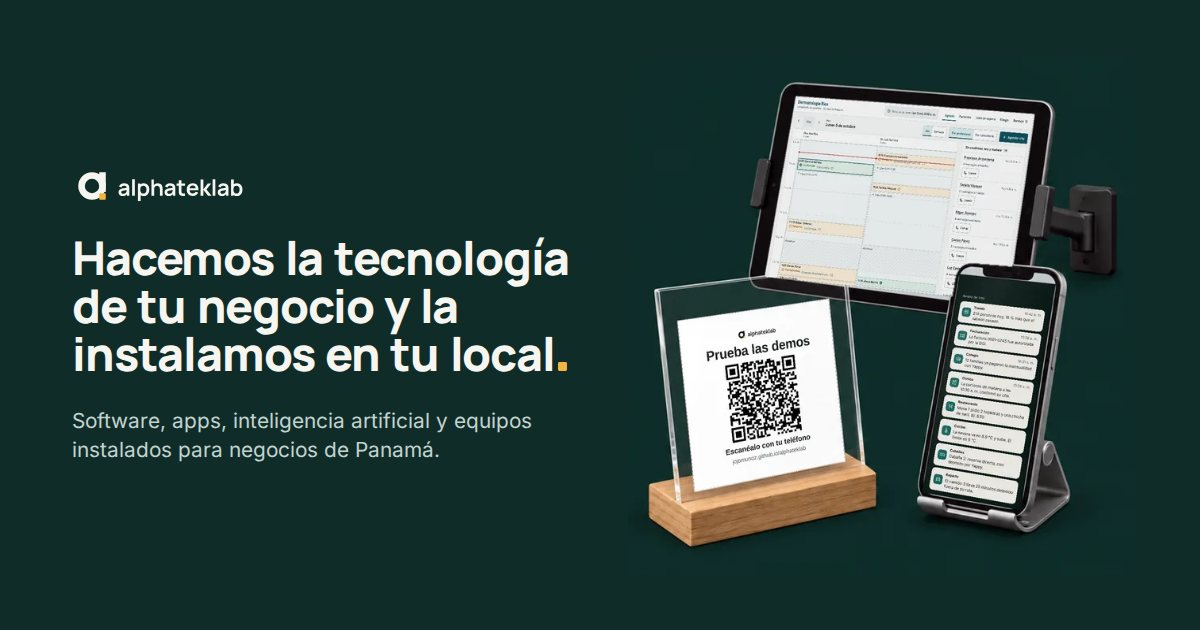
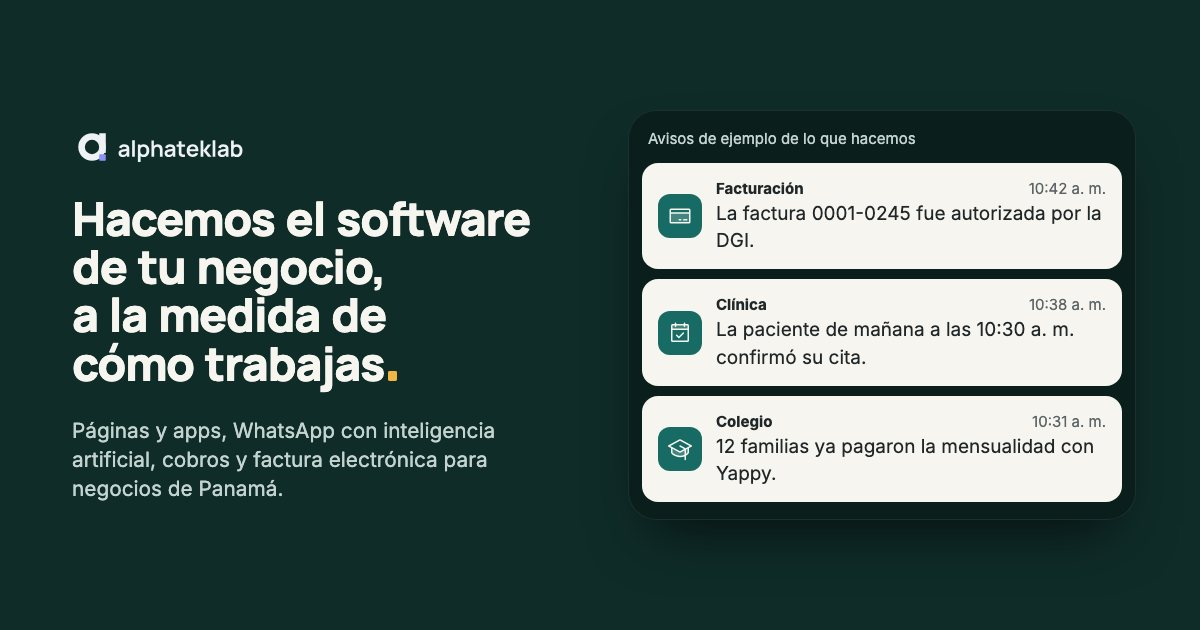
Imágenes para compartir sin equipos: la portada con los avisos y el titular nuevo
La de la portada decía «la instalamos en tu local» y llevaba la foto de la placa (con un QR al sitio viejo); tiendas y
bienes raíces llevaban la cámara y el recorrido 3D. Rehechas con herramientas/og-soluciones.mjs; salen con el logo que
hay ahora en assets/marca (cambio de paleta en curso): conviene rehacerlas cuando se cierre la paleta.

Changed region(s): [[0.5242, 0.1206, 0.9558, 0.8746], [0.0617, 0.2111, 0.4933, 0.6333], [0.0617, 0.6333, 0.4625, 0.8143]]

diff --git a/herramientas/og.html b/herramientas/og.html
@@ -23,8 +23,6 @@
   .aviso__cabeza { display: flex; justify-content: space-between; font-size: 15px; color: #5b6466; }
   .aviso__cabeza strong { color: #202729; font-weight: 750; }
   .aviso__texto { font-size: 19px; line-height: 1.3; margin-top: 2px; }
-  /* foto del héroe de la portada: su fondo es el mismo verde, va sin marco */
-  .heroe-foto { display: block; width: 520px; height: 520px; margin: -20px 0 -20px auto; }
   /* pantalla de una demo */
   .pantalla { border-radius: 14px; overflow: hidden; box-shadow: 0 0 0 10px #15181b, 0 40px 70px -24px rgb(0 0 0 / 0.75); background: #15181b; }
   .pantalla img { display: block; width: 100%; height: auto; }
@@ -34,8 +32,8 @@
 <div class="og">
   <div class="og__texto">
     <img class="logo" src="../assets/marca/logo-oscuro.svg" alt="" />
-    <h1>Hacemos la tecnología de tu negocio y la instalamos en tu local<span class="modulo"></span></h1>
-    <p>Software, apps, inteligencia artificial y equipos instalados para negocios de Panamá.</p>
+    <h1>Hacemos el software de tu negocio, a la medida de cómo trabajas<span class="modulo"></span></h1>
+    <p>Páginas y apps, WhatsApp con inteligencia artificial, cobros y factura electrónica para negocios de Panamá.</p>
   </div>
   <div class="og__lado"></div>
 </div>
